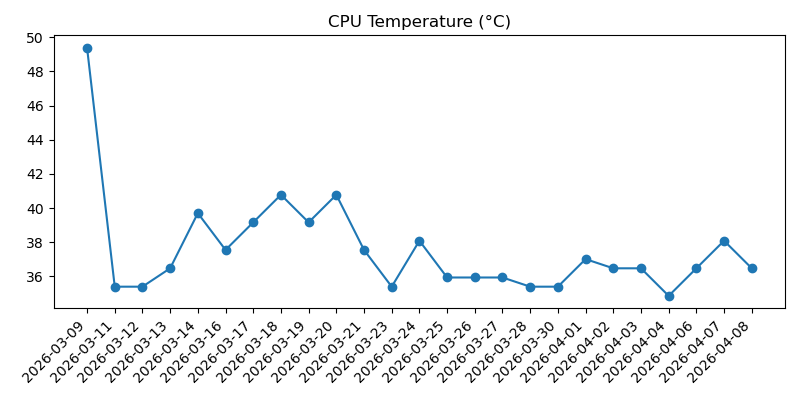
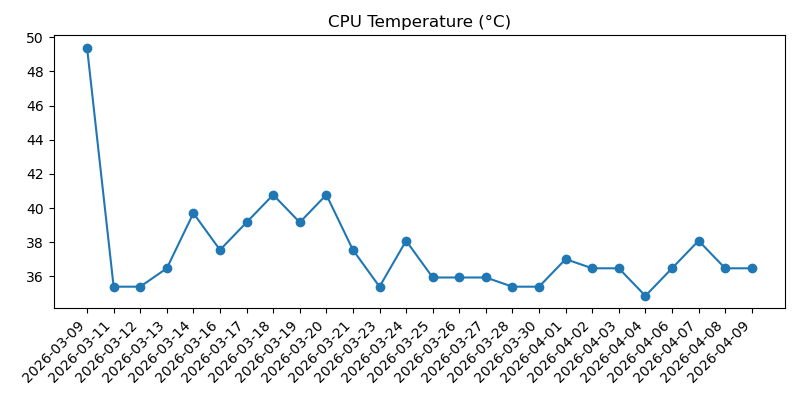
Record daily machine check

Changed region(s): [[0.0625, 0.81, 0.9375, 0.96], [0.2188, 0.48, 0.9375, 0.75], [0.125, 0.42, 0.2188, 0.72]]

diff --git a/2026-04.md b/2026-04.md
@@ -238,3 +238,37 @@
 - Overall: Good
 - Warning: None
 
+## 2026-04-09 09:30:58
+
+### Machine
+- Uptime: up 1 week, 1 day, 19 hours, 27 minutes
+- CPU load (1m, 5m, 15m): 0.00, 0.00, 0.00
+- RAM used: 168 MB / 921 MB (18.2%)
+- Disk used (/): 3.5 GB / 28.8 GB (12.2%)
+- Free disk space (/): 24.1 GB
+- CPU temp: 36.5°C
+- Voltage / throttling: OK
+
+### Reachability
+- Internet check (1.1.1.1): Reachable (4.6 ms)
+
+### Weather
+- Madrid:
+  - Condition: Nubes altas
+  - Max temp: 27°C
+  - Min temp: 12°C
+  - Feels like: 16°C
+  - Chance of rain: 0%
+  - Warnings: None reported
+- Barcelona:
+  - Condition: Nubes altas
+  - Max temp: 22°C
+  - Min temp: 12°C
+  - Feels like: 17°C
+  - Chance of rain: 0%
+  - Warnings: None reported
+
+### Health
+- Overall: Good
+- Warning: None
+
